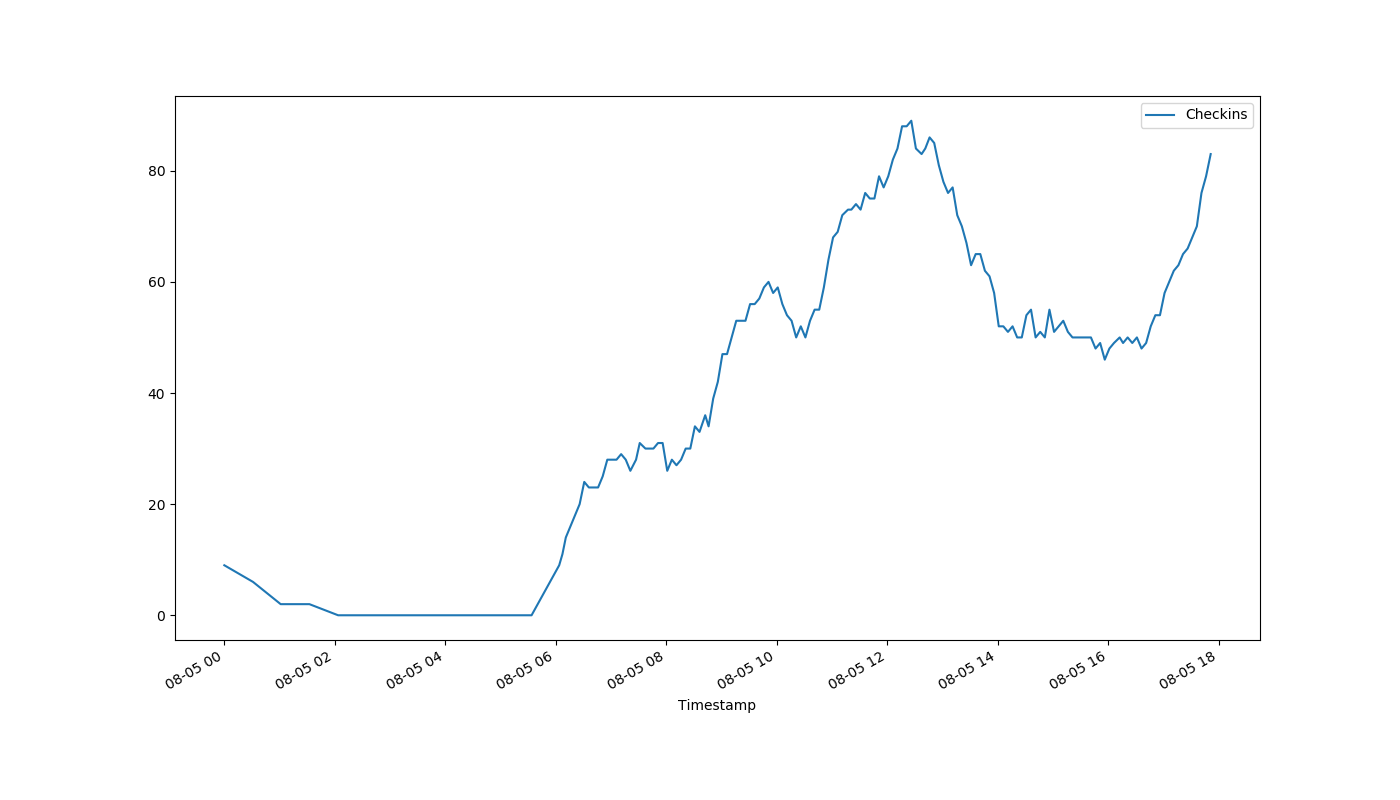
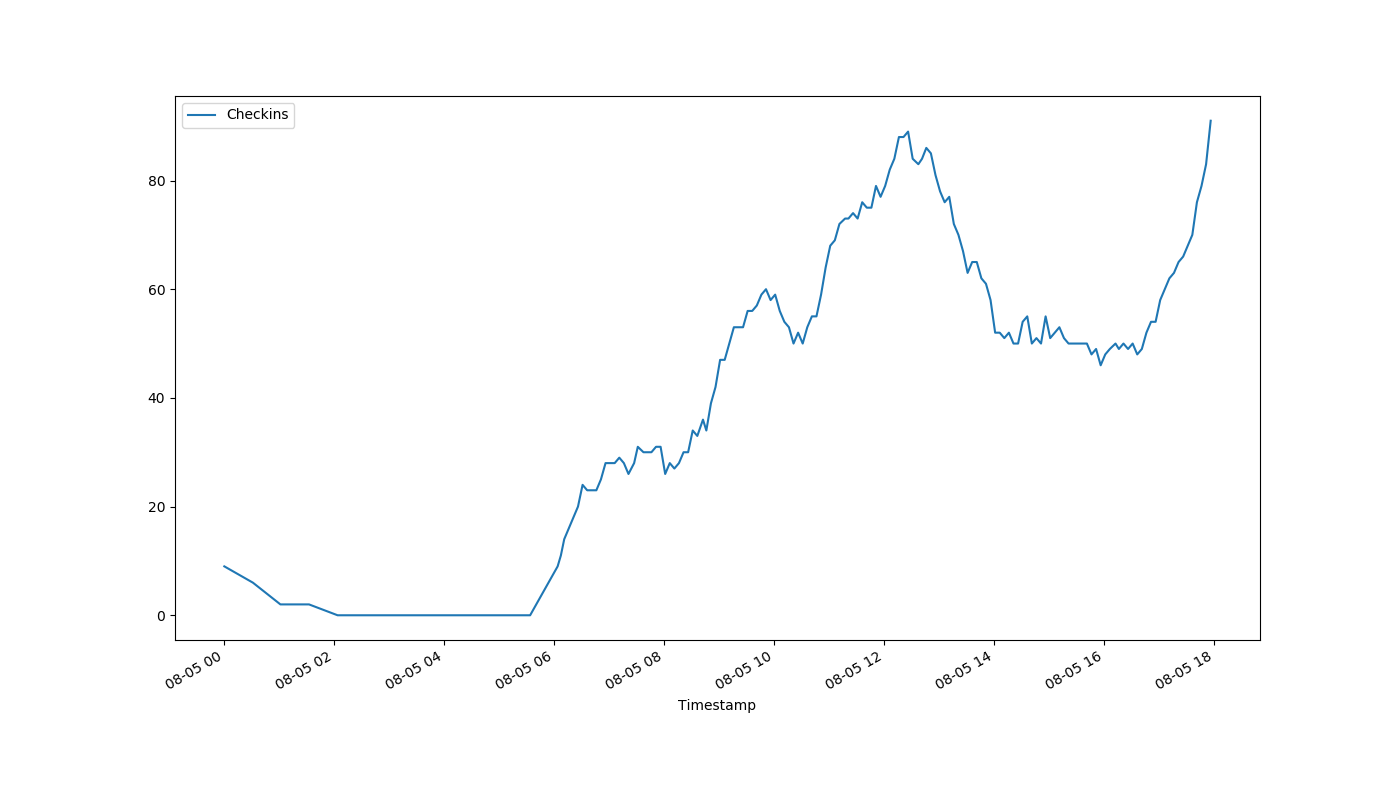
auto-Aug-05-17:58:05

diff --git a/index.html b/index.html
@@ -1,1 +1,1 @@
-<!DOCTYPE html><html><head><meta http-equiv="refresh" content="30"><link rel='stylesheet' href='holmcurrent.css'></head><body><p id='count'>83</p><div id='graph-wrap'><img id='graph' src='holmgraph-Aug-05.png'></div><p id='updated'>Last updated 17:52:01 / 17:51:12</p></body></html>
+<!DOCTYPE html><html><head><meta http-equiv="refresh" content="30"><link rel='stylesheet' href='holmcurrent.css'></head><body><p id='count'>91</p><div id='graph-wrap'><img id='graph' src='holmgraph-Aug-05.png'></div><p id='updated'>Last updated 17:57:01 / 17:56:12</p></body></html>
